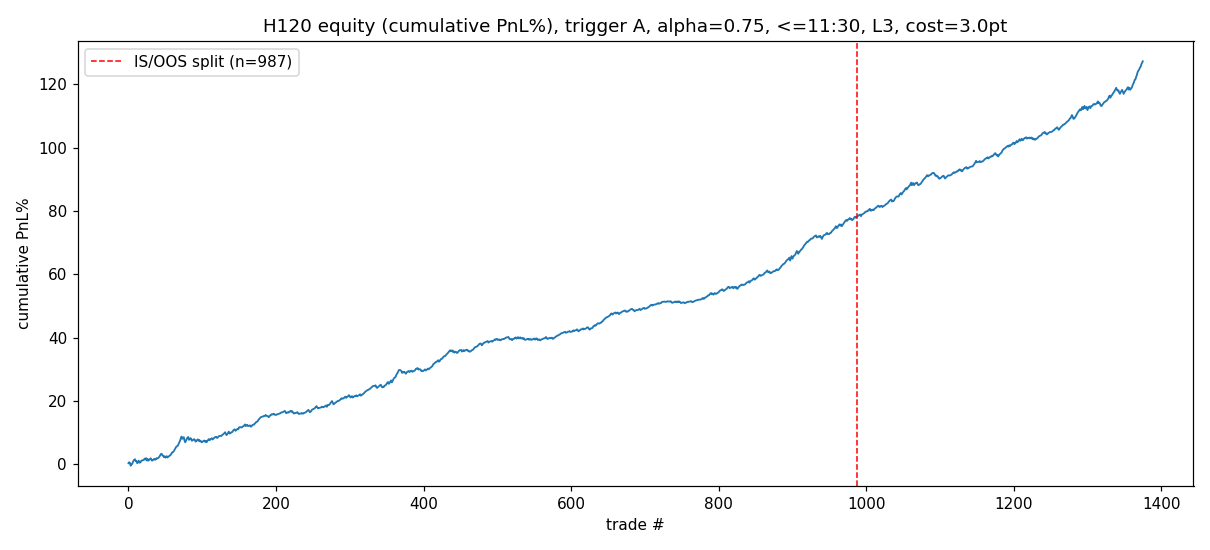
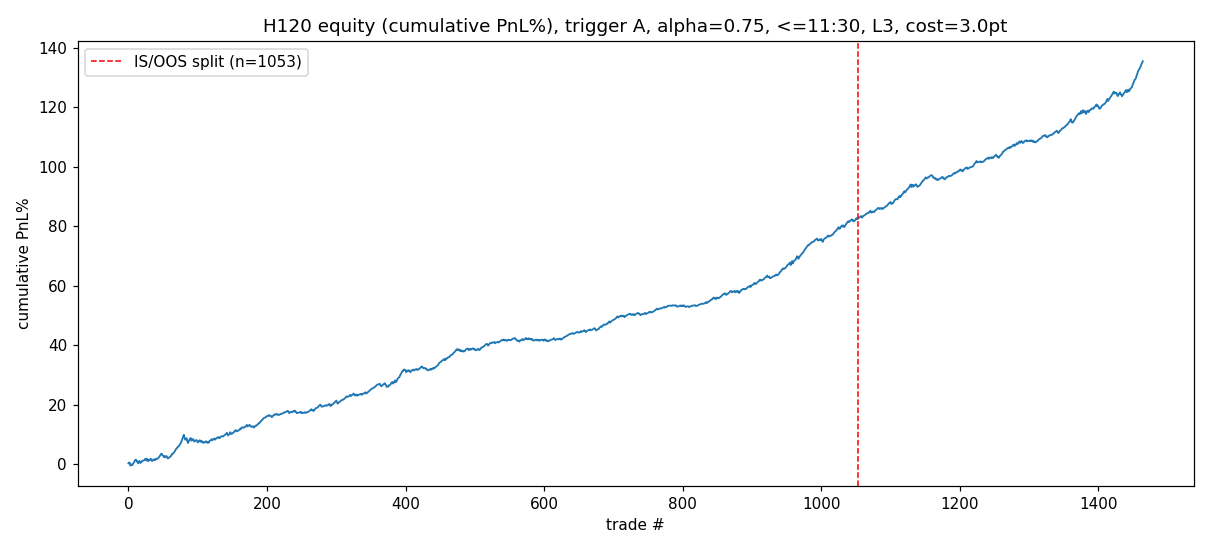
research: H120 加分時段+日內順序分析，部署採 ≤12:00 進場上限
分時段顯示午後尾盤(12:45+)幾乎無 edge → 進場上限定 12:00。日內順序分析
（控制時段後）發現第一筆非最佳：早盤/中段同時段第2+筆勝率/Sharpe 更高
（再上膛=趨勢日確認），午後相反。backtest 主結果改 ≤12:00 重跑，逐年+WF
仍全正（IS Sharpe 0.302/OOS 0.419）。新增衍生 H120f 再上膛加碼。

diff --git a/research/active/H120-l2-pullback-continuation/analyze.py b/research/active/H120-l2-pullback-continuation/analyze.py
@@ -34,13 +34,19 @@ def regime_map(days):
 
 
 def tbucket(m):
-    if m < 570:
-        return "08:45-09:30"
+    # 使用者指定三段：08:45-10:30 / 10:30-12:00 / 12:00-13:45
     if m < 630:
-        return "09:30-10:30"
-    if m < 690:
-        return "10:30-11:30"
-    return ">11:30"
+        return "08:45-10:30"
+    if m < 720:
+        return "10:30-12:00"
+    return "12:00-13:45"
+
+
+def tbucket30(m):
+    """30 分鐘梯度（找更好切法）。"""
+    base = 525
+    lo = base + ((m - base) // 30) * 30
+    return f"{lo // 60:02d}:{lo % 60:02d}"
 
 
 def line(label, m):
@@ -60,10 +66,12 @@ def main():
     for tc in tcs:
         r = bt.simulate(tc, days[tc["date"]], alpha=ALPHA, mode=MODE, trail_frac=0, cost=COST)
         r.update(date=tc["date"], up=tc["up"], side="多" if tc["up"] else "空",
-                 tb=tbucket(tc["entry_min"]), wd=tc["date"].weekday(),
+                 tb=tbucket(tc["entry_min"]), entry_min=tc["entry_min"], wd=tc["date"].weekday(),
                  reg=reg.get(tc["date"]), year=tc["date"].year)
         trs.append(r)
-    print(f"全樣本 trigger A：N={len(trs)}（2021-2026, ≤13:45 全時段）\n")
+    ndays = len({t["date"] for t in trs}) or 1
+    ntotaldays = len(ema)
+    print(f"全樣本 trigger A：N={len(trs)}（2021-2026, 全時段），有訊號日={ndays}, 交易日={ntotaldays}\n")
 
     def grp(key, order=None):
         g = defaultdict(list)
@@ -72,9 +80,30 @@ def main():
         keys = order or sorted(k for k in g if k is not None)
         return [(k, bt.metrics(g[k])) for k in keys]
 
-    print("=== 1) 進場時間桶 ===")
-    for k, m in grp(lambda t: t["tb"], ["08:45-09:30", "09:30-10:30", "10:30-11:30", ">11:30"]):
-        line(k, m)
+    def line_freq(label, m):
+        """機會(筆/日) + 期望值。"""
+        if not m:
+            print(f"  {label:<14} N=0")
+            return
+        per_day = m["N"] / ntotaldays
+        print(f"  {label:<14} N={m['N']:>4} ({per_day:.2f}筆/日) win={m['win%']:>5}% "
+              f"EV={m['EVpt']:>5}pt tot={m['tot%']:>7}% sharpe={m['sharpe']:>6} avgR={m['avgR']}")
+
+    print("=== 1) 你指定的三段（機會 + 期望值）===")
+    for k, m in grp(lambda t: t["tb"], ["08:45-10:30", "10:30-12:00", "12:00-13:45"]):
+        line_freq(k, m)
+
+    print("\n=== 1b) 三段 × 多空 ===")
+    for tb in ("08:45-10:30", "10:30-12:00", "12:00-13:45"):
+        for side in ("多", "空"):
+            line_freq(f"{tb} {side}", bt.metrics([t for t in trs if t["tb"] == tb and t["side"] == side]))
+
+    print("\n=== 1c) 30 分鐘梯度（找更好的切法）===")
+    g30 = defaultdict(list)
+    for t in trs:
+        g30[tbucket30(t["entry_min"])].append(t)
+    for k in sorted(g30):
+        line_freq(k, bt.metrics(g30[k]))
 
     print("\n=== 2) 多 / 空 ===")
     for k, m in grp(lambda t: t["side"], ["多", "空"]):
@@ -95,11 +124,49 @@ def main():
             tag = "順勢" if (side, rg) in (("多", "多頭"), ("空", "空頭")) else "逆勢"
             line(f"{side}@{rg}({tag})", bt.metrics(sub))
 
-    print("\n=== 6) 時間桶 × 多空 ===")
-    for tb in ("08:45-09:30", "09:30-10:30", "10:30-11:30", ">11:30"):
-        for side in ("多", "空"):
-            sub = [t for t in trs if t["tb"] == tb and t["side"] == side]
-            line(f"{tb} {side}", bt.metrics(sub))
+    # ---- 日內順序：第一筆 vs 後續，並與「時段」拆開 ----
+    by_date = defaultdict(list)
+    for t in trs:
+        by_date[t["date"]].append(t)
+    for d in by_date:
+        by_date[d].sort(key=lambda x: x["entry_min"])
+        for i, t in enumerate(by_date[d]):
+            t["order"] = i + 1
+            t["n_in_day"] = len(by_date[d])
+
+    print("\n=== 7) 一天進場筆數分佈 ===")
+    from collections import Counter
+    cnt = Counter(len(v) for v in by_date.values())
+    for k in sorted(cnt):
+        print(f"  {k} 筆/日：{cnt[k]} 天")
+
+    print("\n=== 8) ★ 日內第 n 筆（含平均進場時間，看是否=早盤）===")
+    def ordkey(t):
+        return t["order"] if t["order"] <= 3 else 4
+    for o in (1, 2, 3, 4):
+        sub = [t for t in trs if ordkey(t) == o]
+        if not sub:
+            continue
+        avg_min = sum(t["entry_min"] for t in sub) / len(sub)
+        lbl = f"第{o}筆" if o < 4 else "第4+筆"
+        m = bt.metrics(sub)
+        print(f"  {lbl:<8} 平均進場={avg_min//60:02.0f}:{avg_min%60:02.0f}  {bt.fmt(m)}")
+
+    print("\n=== 9) ★ 控制時段：同一時段內 第1筆 vs 後續（拆開順序 vs 時段）===")
+    for tb in ("08:45-10:30", "10:30-12:00", "12:00-13:45"):
+        first = [t for t in trs if t["tb"] == tb and t["order"] == 1]
+        rest = [t for t in trs if t["tb"] == tb and t["order"] >= 2]
+        print(f"  [{tb}]")
+        line("  第1筆", bt.metrics(first))
+        line("  第2+筆", bt.metrics(rest))
+
+    print("\n=== 10) ≤12:00 進場上限 IS/OOS（部署設定）===")
+    cut = [t for t in trs if t["entry_min"] < 720]
+    is_c = [t for t in cut if t["year"] < 2025]
+    oos_c = [t for t in cut if t["year"] >= 2025]
+    line("全樣本", bt.metrics(cut))
+    line("IS<2025", bt.metrics(is_c))
+    line("OOS>=2025", bt.metrics(oos_c))
 
 
 if __name__ == "__main__":

diff --git a/research/active/H120-l2-pullback-continuation/backtest.py b/research/active/H120-l2-pullback-continuation/backtest.py
@@ -36,6 +36,7 @@ RESULTS = Path(__file__).parent / "results"
 PB_FLOOR_FRAC = 0.05
 OOS_START = date(2025, 1, 1)   # IS < 2025, OOS >= 2025
 GATE_0930, GATE_1130 = 570, 690
+NOON = 720   # 部署進場上限 12:00（午後尾盤幾乎無 edge，見分時段分析）
 
 
 # ---------- 資料 ----------
@@ -258,35 +259,35 @@ def main():
     allt = run(IS, days, alpha=best_alpha, mode="L3", trail_frac=0, cost=COST)
     for b in ("≤09:30", "09:30-11:30", ">11:30"):
         print(f"  {b:<12} {fmt(metrics([t for t in allt if t['bucket']==b]))}")
-    early = [t for t in IS if t["entry_min"] < GATE_1130]
-    print(f"  ≤11:30 合併    {fmt(metrics(run(early, days, alpha=best_alpha, mode='L3', trail_frac=0, cost=COST)))}")
+    early = [t for t in IS if t["entry_min"] < NOON]
+    print(f"  ≤12:00 合併    {fmt(metrics(run(early, days, alpha=best_alpha, mode='L3', trail_frac=0, cost=COST)))}")
 
-    # ---- 3) 出場模式 L3 vs trail（IS, best alpha, ≤11:30）----
-    print("\n=== 3) 出場模式 (IS, alpha=best, ≤11:30, cost=3) ===")
+    # ---- 3) 出場模式 L3 vs trail（IS, best alpha, ≤12:00）----
+    print("\n=== 3) 出場模式 (IS, alpha=best, ≤12:00, cost=3) ===")
     print(f"  L3 固定        {fmt(metrics(run(early, days, alpha=best_alpha, mode='L3', trail_frac=0, cost=COST)))}")
     for tf in (0.5, 0.75, 1.0):
         m = metrics(run(early, days, alpha=best_alpha, mode="trail", trail_frac=tf, cost=COST))
         print(f"  trail {tf:<4}     {fmt(m)}")
 
-    # ---- 4) 成本敏感度（IS, best alpha, ≤11:30, L3）----
-    print("\n=== 4) 成本敏感度 (IS, alpha=best, ≤11:30, mode=L3) ===")
+    # ---- 4) 成本敏感度（IS, best alpha, ≤12:00, L3）----
+    print("\n=== 4) 成本敏感度 (IS, alpha=best, ≤12:00, mode=L3) ===")
     for c in (0, 2, 3, 4, 6):
         print(f"  cost={c}pt      {fmt(metrics(run(early, days, alpha=best_alpha, mode='L3', trail_frac=0, cost=c)))}")
 
-    # ---- 5) ★ IS vs OOS（鎖定 alpha=best, ≤11:30, mode=L3, cost=3）----
-    print("\n=== 5) ★ IS vs OOS (alpha=best, ≤11:30, mode=L3, cost=3pt) ===")
-    is_e = [t for t in IS if t["entry_min"] < GATE_1130]
-    oos_e = [t for t in OOS if t["entry_min"] < GATE_1130]
+    # ---- 5) ★ IS vs OOS（鎖定 alpha=best, ≤12:00, mode=L3, cost=3）----
+    print("\n=== 5) ★ IS vs OOS (alpha=best, ≤12:00, mode=L3, cost=3pt) ===")
+    is_e = [t for t in IS if t["entry_min"] < NOON]
+    oos_e = [t for t in OOS if t["entry_min"] < NOON]
     m_is = metrics(run(is_e, days, alpha=best_alpha, mode="L3", trail_frac=0, cost=COST))
     m_oos = metrics(run(oos_e, days, alpha=best_alpha, mode="L3", trail_frac=0, cost=COST))
     print(f"  IS  {fmt(m_is)}")
     print(f"  OOS {fmt(m_oos)}")
 
     # ---- 6) 逐年 + walk-forward（每年用「之前所有年」最佳 alpha）----
-    print("\n=== 6) 逐年 (≤11:30, mode=L3, cost=3, alpha=best) ===")
+    print("\n=== 6) 逐年 (≤12:00, mode=L3, cost=3, alpha=best) ===")
     by_year = defaultdict(list)
     for t in tcs:
-        if t["entry_min"] < GATE_1130:
+        if t["entry_min"] < NOON:
             by_year[t["date"].year].append(t)
     for y in sorted(by_year):
         print(f"  {y}  {fmt(metrics(run(by_year[y], days, alpha=best_alpha, mode='L3', trail_frac=0, cost=COST)))}")
@@ -295,7 +296,7 @@ def main():
     wf_trs = []
     years = sorted(by_year)
     for y in years:
-        train = [t for t in tcs if t["date"].year < y and t["entry_min"] < GATE_1130]
+        train = [t for t in tcs if t["date"].year < y and t["entry_min"] < NOON]
         if len(train) < 100:
             continue
         ba, bs = None, -9

diff --git a/research/active/H120-l2-pullback-continuation/results/backtest.md b/research/active/H120-l2-pullback-continuation/results/backtest.md
@@ -4,59 +4,90 @@
 2026-06-14
 
 ## Parameters
-- **進場**：L2 門檻 ZigZag 偵測 leg → ext 達 L2d 確立方向 → 第一個 ≥0.05×EMA20 拉回 → **拉回後 1 分 K 收盤站回 5MA（trigger A）**進場（每 leg 一筆）。已直衝 L3 才首次拉回的 leg 不交易。
-- **停損**：`stop = pb_low − alpha×(pb_low − anchor)`，**alpha=0.75**（偏趨勢起點的寬結構停損；IS/WF 最佳且穩定）。
-- **出場**：mode=L3（錨±L3d 固定停利）為基準；**trail 0.5**（達 L3 後改 trail 0.5×L3d 博 L4/L5）為抱尾變體。
-- **時間窗**：起點 ≤ 11:30（與 swing_legs 一致）。
+- **進場**：L2 門檻 ZigZag 偵測 leg → ext 達 L2d 確立方向 → 第一個 ≥0.05×EMA20 拉回 → **拉回後 1 分 K 收盤站回 5MA（trigger A）**進場（每 leg 一筆）。guard：直衝 L3 不交易、進場那根已破 L3 不交易（overshoot）。
+- **停損**：`stop = pb_low − alpha×(pb_low − anchor)`，**alpha=0.75**（偏起點寬結構停損；IS/WF 最佳且穩定）。
+- **出場**：mode=L3（錨±L3d 固定停利）為基準；trail 0.5（達 L3 後 trail 0.5×L3d）為抱尾變體。
+- **進場時間上限**：**≤12:00**（午後尾盤幾乎無 edge，見下方分時段分析；指標/builder 預設同步）。
 - **成本**：每筆 round-trip 3pt（baseline）。
 - **資料**：TX 日盤 1 分 K，2021-01 ~ 2026-06。IS=<2025、OOS=≥2025。
 - 績效：損益% = pnl點數 / 進場價 × 100；Sharpe 為**每筆** mean/std；maxDD/連敗以損益%累計。
 
-## Results
+## Results（部署設定：trigger A, alpha=0.75, ≤12:00, mode=L3, cost=3pt）
 
 | Metric | In-Sample (<2025) | Out-of-Sample (≥2025) |
 |---|---|---|
-| # Trades | 1052 | 413 |
-| Win Rate | 70.6% | 74.8% |
-| EV / trade (pt) | 11.1 | 32.8 |
-| 總損益% | 64.6% | 43.6% |
-| Sharpe (per-trade) | 0.235 | 0.331 |
-| Max Drawdown (損益%) | −2.0% | −2.1% |
-| Max Loss Streak | 5 | 4 |
-| avg R | 0.18 | 0.26 |
+| # Trades | 1053 | 412 |
+| Win Rate | 76.3% | 80.6% |
+| EV / trade (pt) | 14.1 | 39.6 |
+| 總損益% | 82.4% | 53.1% |
+| Sharpe (per-trade) | 0.302 | 0.419 |
+| Max Drawdown (損益%) | −2.8% | −1.6% |
+| Max Loss Streak | 4 | 3 |
+| avg R | 0.20 | 0.29 |
 
-（出場改 trail 0.5：IS 總損益% 103.4%、Sharpe 0.236、勝率 54%、maxDD −2.9%。）
+（出場改 trail 0.5：IS 總損益% 105.7%、Sharpe 0.245、勝率 54.9% —— 點數更多、Sharpe 略降。）
 
 ## Walk-Forward Summary
-每個 test 年用「該年之前所有資料」選 alpha（by Sharpe），alpha* 穩定收斂於 **0.75**（僅 2022 選 0.5）。逐年 test 結果**全部為正**：
+每 test 年用「之前所有資料」選 alpha（by Sharpe），alpha* 穩定收斂 **0.75**（僅 2022 選 0.5）。逐年 test **全部為正**：
 
 | 年 | N | 勝率 | 總損益% | Sharpe | maxDD% | 連敗 |
 |---|---|---|---|---|---|---|
-| 2021 | 243 | 66.7% | 12.9 | 0.167 | −2.0 | 5 |
-| 2022 | 270 | 67.0% | 15.1 | 0.224 | −1.4 | 4 |
-| 2023 | 259 | 70.7% | 10.9 | 0.220 | −1.2 | 4 |
-| 2024 | 280 | 73.2% | 22.1 | 0.297 | −1.1 | 3 |
-| 2025 | 263 | 74.1% | 21.2 | 0.292 | −2.1 | 4 |
-| 2026* | 150 | 76.0% | 22.4 | 0.394 | −1.9 | 3 |
+| 2021 | 247 | 72.9% | 17.3 | 0.219 | −2.8 | 4 |
+| 2022 | 276 | 76.4% | 23.4 | 0.341 | −1.3 | 3 |
+| 2023 | 261 | 75.1% | 12.5 | 0.251 | −1.3 | 3 |
+| 2024 | 269 | 80.3% | 29.1 | 0.419 | −1.1 | 2 |
+| 2025 | 261 | 79.7% | 26.5 | 0.388 | −1.6 | 3 |
+| 2026* | 151 | 82.1% | 26.6 | 0.476 | −1.6 | 3 |
 
-WF 拼接：N=1222、勝率 71.8%、總損益% 91.7%、Sharpe 0.278、maxDD −2.1%、最大連敗 4。
-（*2026 僅至 06 月）
+WF 拼接：N=1218、勝率 77.4%、總損益% 114.5%、Sharpe 0.358、maxDD −1.6%、最大連敗 4。（*2026 至 06 月）
 
 ## Parameter Sensitivity
-- **停損 alpha（穩健、單向）**：緊停（alpha=0）Sharpe 0.023、連敗 17（不可用）；隨 alpha↑ 單調改善至 0.75（Sharpe 0.231）後 1.0 略降。最佳區間 0.75~1.0，**寬結構停損為硬結論**。
-- **成本（穩健）**：cost 0→6pt，Sharpe 0.302→0.168，**到 6pt 仍正**；baseline 3pt Sharpe 0.235。
-- **時間窗（不敏感）**：≤09:30 / 09:30–11:30 / >11:30 三桶 Sharpe 0.195~0.254 皆正；早盤 win% 略高但寬停損後差異收斂。≤11:30 為合理選擇。
-- **出場（風格選擇，非優劣）**：L3 固定 vs trail 0.5 Sharpe 持平（0.235 vs 0.236），trail 總損益% ×1.6（博尾），代價是 win% 70%→54%、maxDD 略增。
+- **停損 alpha（穩健、單向）**：緊停(alpha=0) Sharpe 0.087、連敗 16（不可用）；隨 alpha↑ 單調升至 0.75（0.291）後 1.0 略降。**寬結構停損為硬結論**。
+- **成本（穩健）**：cost 0→6pt Sharpe 0.37→0.235，**到 6pt 仍正**。
+- **出場（風格選擇）**：L3 固定 Sharpe 0.302（穩）vs trail 0.5 Sharpe 0.245、總損益% 105.7%（博尾、點數多）。
+
+## 分時段分析（全樣本，cost=3，已扣成本）
+| 時段 | 機會(筆/日) | 占比 | 勝率 | EV/筆 | 總損益% | Sharpe |
+|---|---|---|---|---|---|---|
+| 08:45–10:30 | 0.83 | 63% | 78.0% | 20.9 | 97.7% | 0.318 |
+| 10:30–12:00 | 0.30 | 23% | 76.0% | 22.4 | 37.8% | 0.402 |
+| 12:00–13:45 | 0.18 | 14% | 72.3% | 14.2 | 15.1% | 0.287 |
+
+- **早盤是量、10:30–12:00 是質、午後是弱。** 30 分鐘梯度顯示 **12:45 後幾乎無 edge**（EV 2.7、Sharpe 0.07）→ 故進場上限設 **12:00**（丟最弱 14% 訊號、拉高平均品質）。
+- 多空：早盤 **空>多**（空 Sharpe 0.41 / 多 0.24）；10:30–12:00 反而 **多>空**（多 Sharpe 0.44）。
+
+## 日內順序分析（第一筆是不是最好？）
+**結論：不是。第一筆反而偏弱；且這不是純時段效應。**
+
+原始（依日內第 n 筆）：
+| 順序 | 平均進場 | N | 勝率 | EV/筆 | Sharpe |
+|---|---|---|---|---|---|
+| 第1筆 | 09:57 | 1138 | 76.7% | 18.3 | 0.296 |
+| 第2筆 | 11:12 | 430 | 77.0% | 23.0 | 0.420 |
+| 第3筆 | 11:54 | 98 | 75.5% | 24.0 | 0.284 |
+| 第4+筆 | 12:23 | 37 | 78.4% | 42.2 | 0.664 |
+
+**控制時段後（同一時段內 第1筆 vs 第2+筆）** —— 拆開「順序 vs 時段」：
+| 時段 | 第1筆 EV / 勝率 / Sharpe | 第2+筆 EV / 勝率 / Sharpe |
+|---|---|---|
+| 08:45–10:30 | 18.7 / 77.0% / 0.285 | **34.7 / 84.2% / 0.529** |
+| 10:30–12:00 | 15.7 / 74.9% / 0.338 | **27.3 / 76.9% / 0.448** |
+| 12:00–13:45 | **19.8 / 78.0% / 0.522** | 12.7 / 70.7% / 0.245 |
+
+- **早盤與中段：同一時段內「第2+筆」明顯優於「第1筆」**（早盤勝率 84%、Sharpe 0.53）。解讀：**出現第二筆同向再上膛 = 當日趨勢已成立**，續攻品質更高；第一筆較常是假起步。
+- **午後相反**：12:00 後第1筆才好，第2+筆是「凹單/過度交易」疲弱盤 → 再次支持午後收手。
+- **Tautology 注意**：「第2+筆」必然發生在「有第2個 setup」的活躍/趨勢日，含選擇偏誤（活躍日本來就好走）。不能跳過第1筆只挑第2筆；但這明確反駁「抓第一筆就收手」——**趨勢日的再上膛續攻值得續抱/加碼**。
 
 ## Verdict
 [x] Confirmed　[ ] Rejected　[ ] Inconclusive
 
-> 建議 Confirmed。依據：①IS/OOS 一致且 OOS 不衰退（Sharpe 0.235→0.331）；②逐年與 walk-forward **全部為正**，alpha* 穩定收斂；③對成本穩健（≤6pt 正）；④maxDD 僅 −2%、最大連敗 ≤5（心理資本可承受）；⑤參數最佳化後通過 OOS + walk-forward。無 proposal 任一無效條件成立（樣本足、條件勝率 >> base rate、R:R 正）。
+> 依據：①IS/OOS 一致且 OOS 不衰退（Sharpe 0.302→0.419、勝率 76→81%）；②逐年 + walk-forward **全部為正**，alpha* 穩定收斂 0.75；③對成本穩健（≤6pt 正）；④maxDD ≤−2.8%、最大連敗 ≤4；⑤參數最佳化通過 OOS + walk-forward。無 proposal 任一無效條件成立。
 >
-> 誠實保留：OOS 期 EV 點數（32.8pt）受高波/高指數放大，但**損益% 與 Sharpe 同步走高**證明非純點數效應；逐年損益% 穩定。per-trade Sharpe 數值看似中等（0.235），因每筆報酬小、筆數多（~260/年），年化解讀需保守，故以「逐年全正 + 低回撤」作為主要證據而非年化 Sharpe。
+> 誠實保留：OOS EV 點數受高波/高指數放大，但損益%/Sharpe/勝率同步走高、逐年穩定；per-trade Sharpe 數值中等（每筆報酬小、筆數多），主證據用「逐年全正 + 低回撤」而非年化 Sharpe。
 
 ## Derived Hypotheses
-- H120b（抱尾，已部分驗證）：trail 0.5 把總損益% 拉到 1.6×、Sharpe 持平 → 值得獨立做分批出（拿 L3 一部分 + 餘量 trail 博 L4/L5），對照 [[feedback_trail_giveback_is_scaleout_cost]]。
-- H120c：拉回深度 / 站回時 5MA 斜率作為濾網，篩掉弱續攻（`setups.csv` 已有 pb_depth）。
-- H120d：regime 分層——升壓 regime 是否該收緊抱尾（[[project_drawdown_risk_in_highvol_not_low]]：回撤風險在升壓）。
-- H120e：晉升 live 後，與既有 EstHL / Reversal 的相關性與資金配置（[[user_trading_focus]]）。
+- H120b（抱尾，已部分驗證）：trail 0.5 總損益% ×1.3、Sharpe 略降 → 分批出（拿 L3 一部分 + 餘量 trail）值得獨立做，對照 [[feedback_trail_giveback_is_scaleout_cost]]。
+- H120c：拉回深度 / 站回時 5MA 斜率作為濾網（`setups.csv` 已有 pb_depth）。
+- H120d：regime 分層（[[project_drawdown_risk_in_highvol_not_low]]）。
+- H120e：晉升 live 後與 EstHL / Reversal 的相關性與資金配置（[[user_trading_focus]]）。
+- **H120f（日內再上膛加碼）**：同向第2+筆續攻在早盤/中段品質更高（早盤勝率 84%、Sharpe 0.53）→ 趨勢日「續抱/分批加碼」而非第一筆就收手；需用正確 null（活躍日基準）驗證選擇偏誤後再定量。
